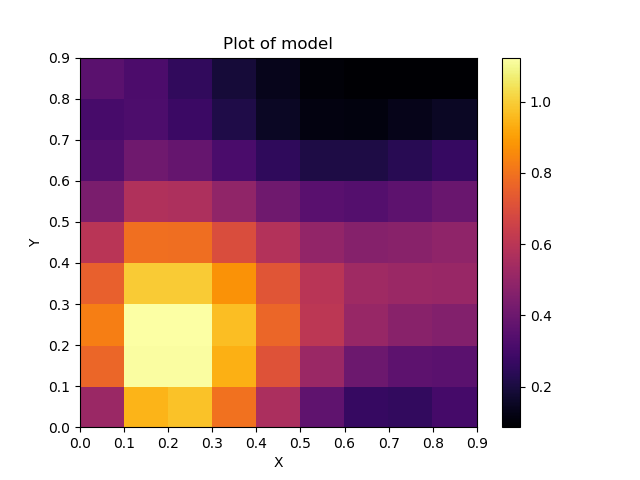
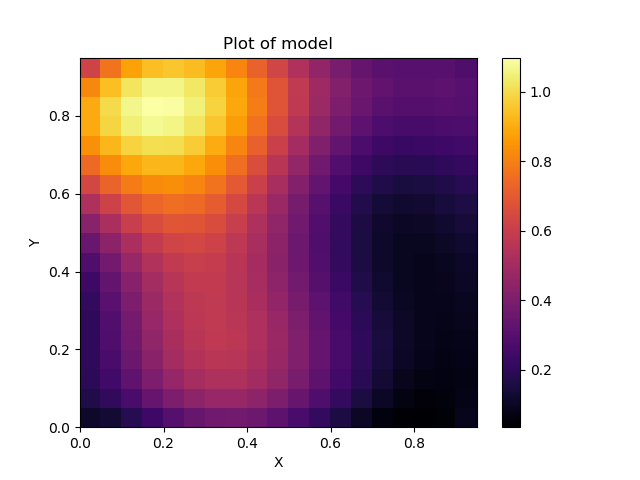
All plot functions work
All plot pictures is changed from wrong to right

diff --git a/Code/utilities.py b/Code/utilities.py
@@ -171,12 +171,12 @@ def tifread(mlimit=100, nlimit=100, filename='data_files/SRTM_data_Norway_1.tif'
     for i in range(0, mlimit):
         for j in range(0, nlimit):
             x[i + j*mlimit][0] = i
-            x[i+ j*mlimit][1] = j
+            x[i + j*mlimit][1] = j
 
-            y[i+ j*mlimit] = im[i][j]
+            y[i + j*mlimit] = im[i][j]
 
 
-    # x and y can be used in the regression-functions
+    # x and y can be used in the regression-function
     return x, y
 
 
@@ -213,20 +213,38 @@ def plot_function_3D(k, beta, m, n):
 
     plt.show()
 
+# Plots the in the wrong axis
 def plot_function_2D(k, beta, m, n, navn):
     # Plots the figure in 2D
-    x1 = np.arange(0, m, 0.1)
-    x2 = np.arange(0, n, 0.1)
+    x1 = np.arange(0, m, 0.05)
+    x2 = np.arange(0, n, 0.05)
 
-    x1, x2 = np.meshgrid(x1, x2)
+    x2, x1 = np.meshgrid(x1, x2)
 
-    y = Polynome(x1, x2, k, beta)
+    y = Polynome(x1, x2, k, beta).T
+    y1 = np.flip(y, axis=1)
 
     fig = plt.figure()
-    plt.pcolormesh(x1, x2 ,y , cmap='inferno')
+    plt.pcolormesh(x1, x2 ,y1, cmap='inferno')
     plt.colorbar()
     plt.title('Plot of model')
     plt.xlabel('X')
     plt.ylabel('Y')
     fig.savefig('figs/%s.png'%(navn), dpi=fig.dpi)
+    plt.show()
+
+def plot_realdata(x, y):
+    x2 = x[:, 1].reshape((len(x[:,1]), 1))
+    x1 = x[:, 0].reshape((len(x[:,0]), 1))
+
+    N = int(len(y)**0.5)
+    y1 = y.reshape(N, N).T
+    # Transpose the y1 to fit the axis properly
+
+    fig = plt.figure()
+    plt.imshow(y1, extent=(np.amin(x1), np.amax(x1), np.amin(x2), np.amax(x2)), cmap='inferno')
+    plt.colorbar()
+    plt.title('Plot of model')
+    plt.xlabel('X')
+    plt.ylabel('Y')
     plt.show()

diff --git a/Code/plottest.py b/Code/plottest.py
@@ -8,18 +8,29 @@ from utilities import *
 
 """
 # Load the terrain
-terrain1 = imread('data_files/SRTM_data_Norway_1.tif')
+terrain1 = imread('data_files/SRTM_data_Norway_2.tif')
 # Show the terrain
 plt.figure()
-plt.title('Terrain over Norway 1')
+plt.title('Terrain over Norway 2')
 plt.imshow(terrain1, cmap='gray')
 plt.xlabel('X')
 plt.ylabel('Y')
 plt.show()
 """
 
-m, n = 100, 100
+m, n = 250, 250
 x, y = tifread(mlimit=m, nlimit=n, filename='data_files/SRTM_data_Norway_2.tif')
+
+plot_realdata(x, y)
+obetareal = RidgeReg(x, y, 10, 0)
+plot_function_2D(10, obetareal, m, n, '250x250OLSdegree10')
+"""
+
+lbetareal = LassoReg(x, y, 5, 0.01)
+plot_function_2D(5, lbetareal, m, n, '250x250Lasso1e-2')
+"""
+
+"""
 rbeta1 = RidgeReg(x, y, 5, 1)
 plot_function_2D(5, rbeta1, m, n, 'k5RidgeLambda1')
 
@@ -31,3 +42,4 @@ plot_function_2D(5, rbeta0, m, n, 'k5OLS')
 
 rbeta5 = RidgeReg(x, y, 5, 5)
 plot_function_2D(5, rbeta5, m, n, 'k5RidgeLambda5')
+"""

diff --git a/Code/project01.py b/Code/project01.py
@@ -40,13 +40,15 @@ plot_function_2D(5, lbeta1, 1, 1, 'partcLassoLambda001')
 # Part d)-------------------------
 # Introducing real data
 
+# This splits the data into a chunk 100x100 up in the right corner
+m, n = 100, 100
+x, y = tifread(mlimit=m, nlimit=n, filename='data_files/SRTM_data_Norway_2.tif')
+plot_realdata(x, y)
+
 # Potentially download own data from website
 # Just get the data represented in variebles
 # and maybe split it up if it's too much
 
-# This splits the data into a chunk 100x100 up in the right corner
-m, n = 100, 100
-x, y = tifread(mlimit=m, nlimit=n, filename='data_files/SRTM_data_Norway_2.tif')
 
 
 # Part e)-------------------------
